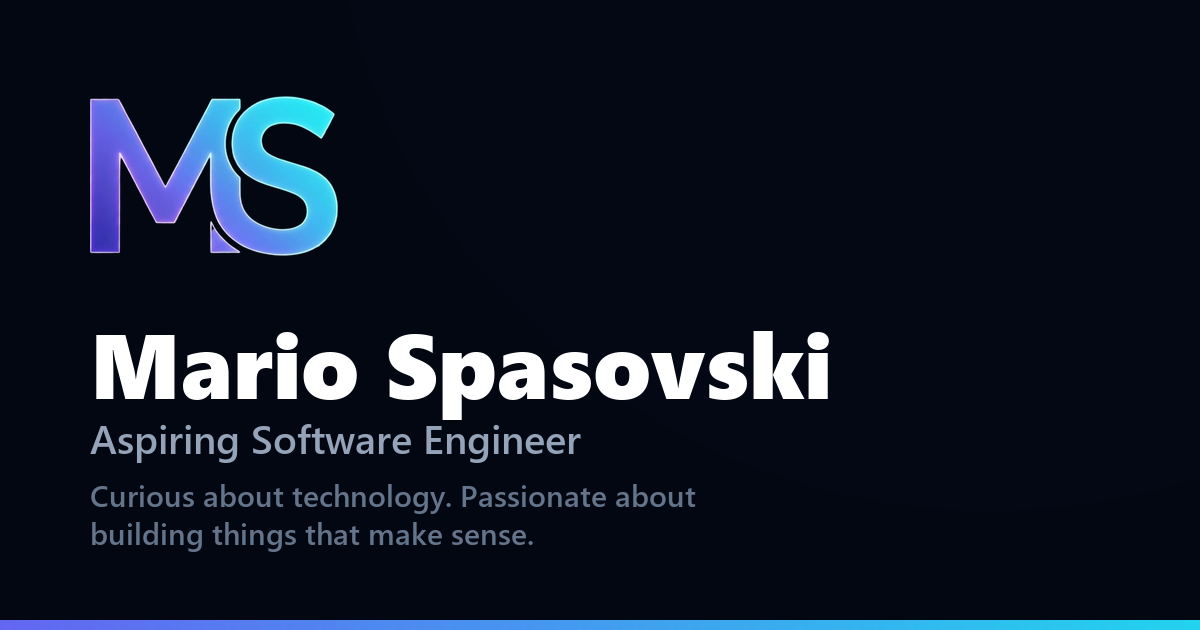
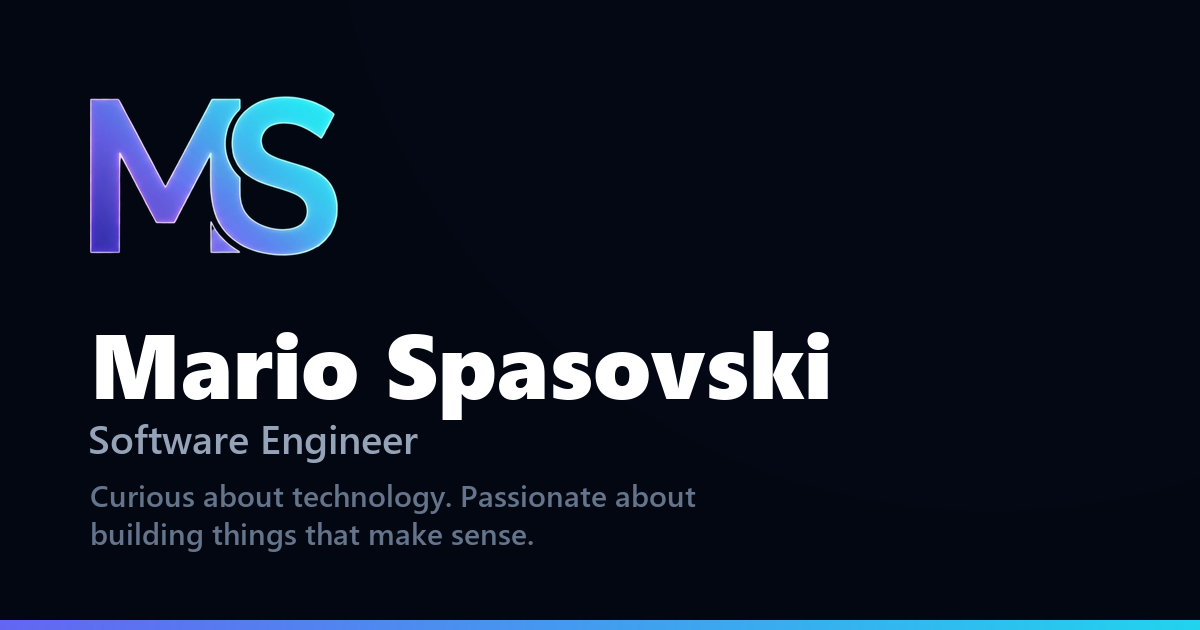
chore: drop "Aspiring" from the page title, metadata and share card
Title, og:title, twitter:title and the JSON-LD page name now read "Mario Spasovski - Software Engineer". The share card image and its alt text lose the word too, as does the Studio field's help example.

Changed region(s): [[0.0617, 0.6635, 0.4933, 0.754]]

diff --git a/portfolio/src/app/layout.tsx b/portfolio/src/app/layout.tsx
@@ -38,7 +38,7 @@ export const metadata: Metadata = {
   // JSON-LD URLs cannot drift onto different domains.
   metadataBase: new URL(siteUrl),
   title: {
-    default: `${site.name} — ${site.role}`,
+    default: `${site.name} - ${site.role}`,
     // Sub-pages set a bare title; the name is appended here rather than in
     // every generateMetadata.
     template: `%s | ${site.name}`,
@@ -75,14 +75,14 @@ export const metadata: Metadata = {
     type: "website",
     url: "/",
     siteName: site.name,
-    title: `${site.name} — ${site.role}`,
+    title: `${site.name} - ${site.role}`,
     description: site.description,
     locale: "en_US",
     images: [shareImage],
   },
   twitter: {
     card: "summary_large_image",
-    title: `${site.name} — ${site.role}`,
+    title: `${site.name} - ${site.role}`,
     description: site.description,
     images: [shareImage.url],
   },

diff --git a/portfolio/src/content/fallbacks.ts b/portfolio/src/content/fallbacks.ts
@@ -6,7 +6,7 @@ import type { About, Experience, Hero, Project, Skills } from "@/types/sanity";
 // Site-level values with no CMS equivalent (layout metadata + footer).
 export const siteSettings = {
   name: "Mario Spasovski",
-  role: "Aspiring Software Engineer",
+  role: "Software Engineer",
   description:
     "Portfolio of Mario Spasovski — a final-year Computer Science and Engineering student at FINKI building web applications with React, Next.js, .NET and Spring Boot.",
   tagline: "Curious about technology. Passionate about building things that make sense.",

diff --git a/portfolio/src/lib/seo.ts b/portfolio/src/lib/seo.ts
@@ -16,7 +16,7 @@ export const shareImage = {
   url: "/opengraph-image.png",
   width: 1200,
   height: 630,
-  alt: "Mario Spasovski — Aspiring Software Engineer. Curious about technology. Passionate about building things that make sense.",
+  alt: "Mario Spasovski — Software Engineer. Curious about technology. Passionate about building things that make sense.",
 } as const;
 
 // Search results truncate around 160 characters; longer copy is wasted.

diff --git a/portfolio/src/lib/structuredData.ts b/portfolio/src/lib/structuredData.ts
@@ -66,7 +66,7 @@ export function homeJsonLd({ roleTag, skills, socialLinks }: HomeInput): Record<
         "@type": "ProfilePage",
         "@id": `${siteUrl}/#webpage`,
         url: HOME_URL,
-        name: `${siteSettings.name} — ${siteSettings.role}`,
+        name: `${siteSettings.name} - ${siteSettings.role}`,
         isPartOf: { "@id": WEBSITE_ID },
         mainEntity: { "@id": PERSON_ID },
         about: { "@id": PERSON_ID },

diff --git a/portfolio-studio/schemaTypes/objects/hero.ts b/portfolio-studio/schemaTypes/objects/hero.ts
@@ -11,7 +11,7 @@ export default defineType({
       title: 'Role Tag',
       type: 'string',
       description:
-        'Small label sitting above the main title. Example: "ASPIRING SOFTWARE ENGINEER".',
+        'Small label sitting above the main title. Example: "SOFTWARE ENGINEER · STUDENT @ FINKI".',
     }),
     defineField({
       name: 'mainTitle',
